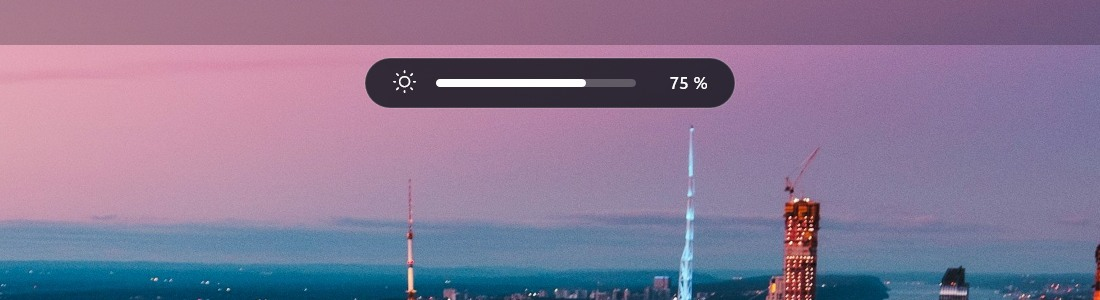
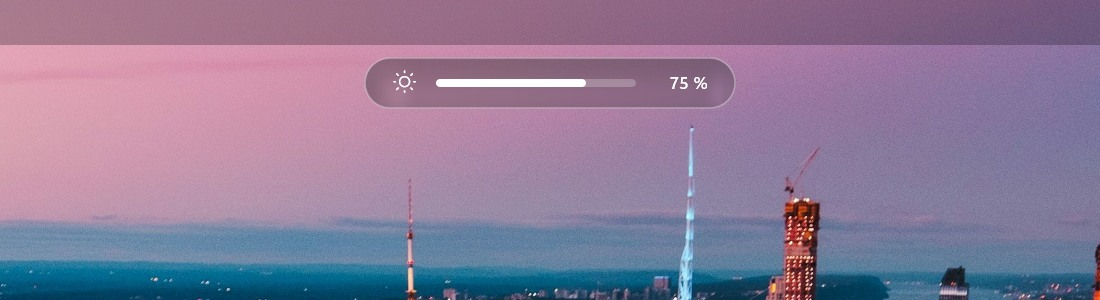
Pastilles volume et luminosite : meme verre que les panneaux

Changed region(s): [[0.3091, 0.18, 0.68, 0.36]]

diff --git a/docs/FONCTIONNEMENT.md b/docs/FONCTIONNEMENT.md
@@ -99,7 +99,7 @@ Skin `MacWidgets\CentreControle`, ouvert par l'icône ⚙ de la barre.
 
 ## Effet verre des panneaux
 
-Windows ne floute pas les fenêtres de Rainmeter, qui ont une transparence pixel par pixel : `SetWindowCompositionAttribute` (flou ou acrylique) donnait un gris uni et peignait les coins. Le verre est donc une image. Juste avant l'ouverture, le moteur photographie ce qu'il y a derrière le panneau (`CopyFromScreen`), le réduit puis l'agrandit (flou), ajoute une teinte légère et arrondit les coins. Il l'enregistre (`verre<horodatage>.png`, nom unique car Rainmeter garde les images en mémoire) et l'affiche en fond (`FondVerre`). Le résultat est proche du dock. Limite : le fond est figé pendant que le panneau est ouvert.
+Windows ne floute pas les fenêtres de Rainmeter, qui ont une transparence pixel par pixel : `SetWindowCompositionAttribute` (flou ou acrylique) donnait un gris uni et peignait les coins. Le verre est donc une image. Juste avant l'ouverture, le moteur photographie ce qu'il y a derrière le panneau (`CopyFromScreen`), le réduit puis l'agrandit (flou), ajoute une teinte légère et arrondit les coins. Il l'enregistre (`verre<horodatage>.png`, nom unique car Rainmeter garde les images en mémoire) et l'affiche en fond (`FondVerre`). Le résultat est proche du dock. Limite : le fond est figé pendant que le panneau est ouvert. Les pastilles de volume et de luminosité ont le même verre (forme de pilule). La photo n'est prise qu'au premier appui, quand la pastille est encore cachée, et jamais quand l'autre pastille occupe déjà la place.
 
 ## Spotlight, calendrier et notifications
 
